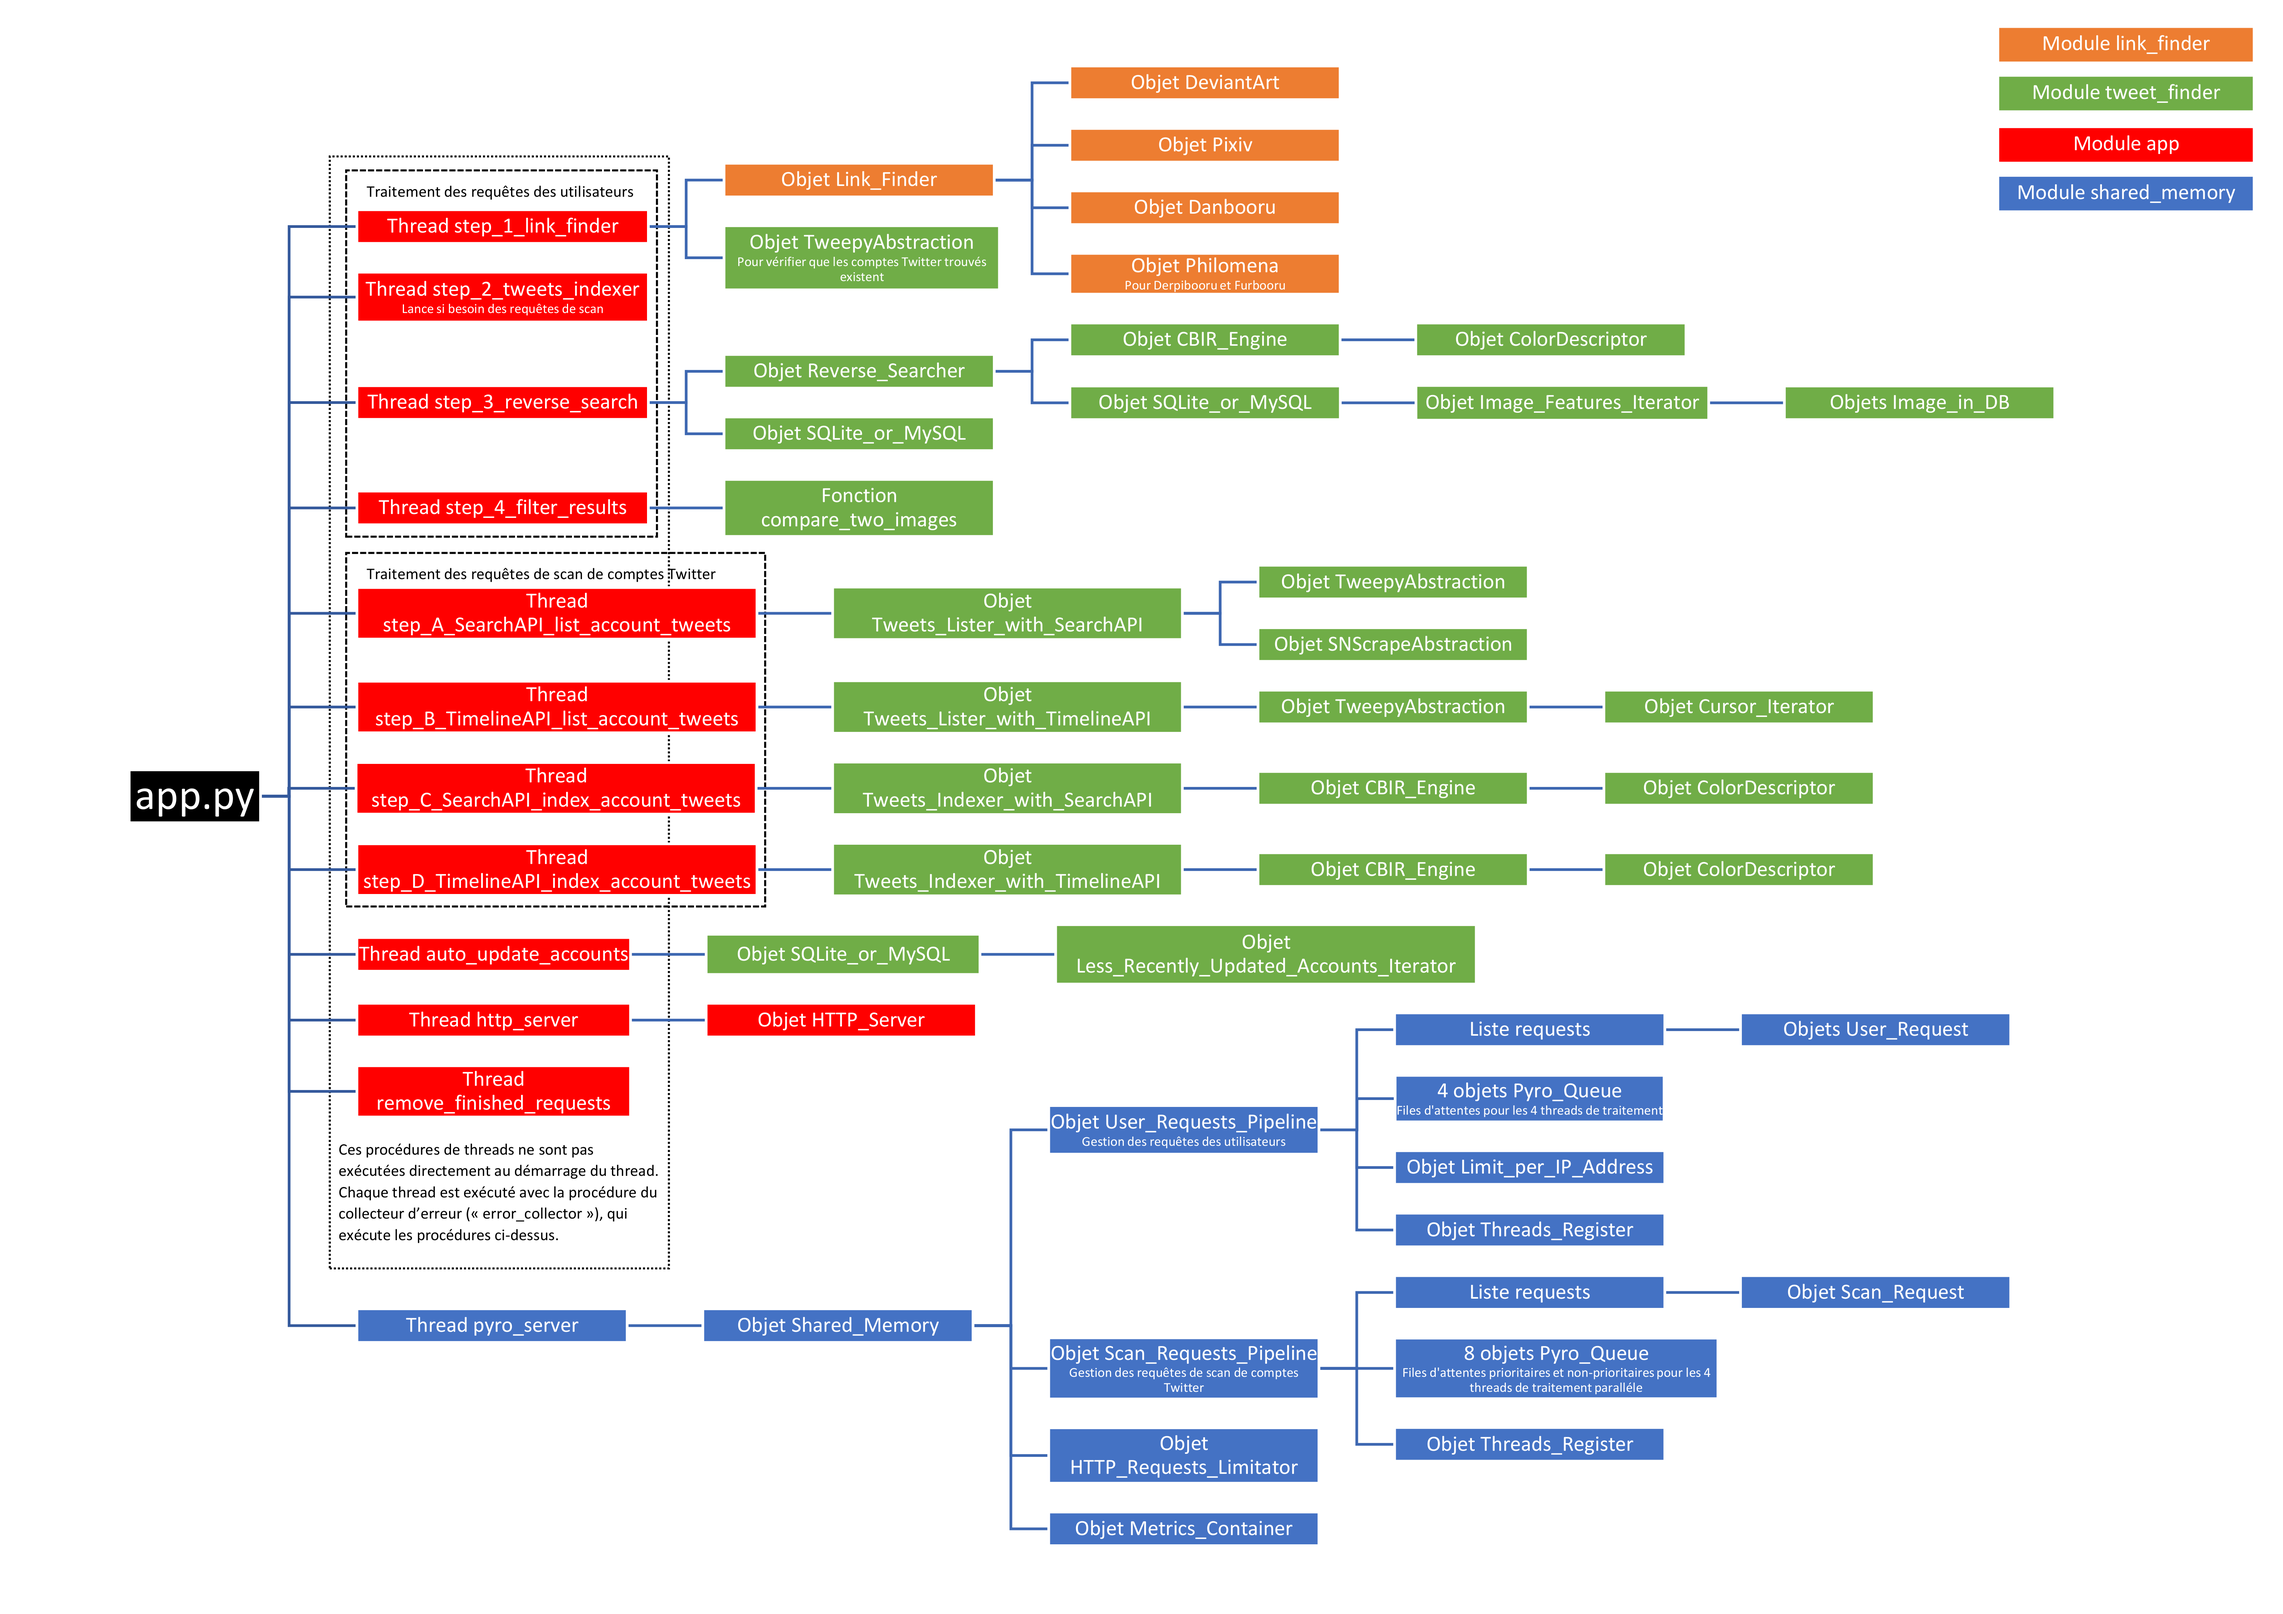
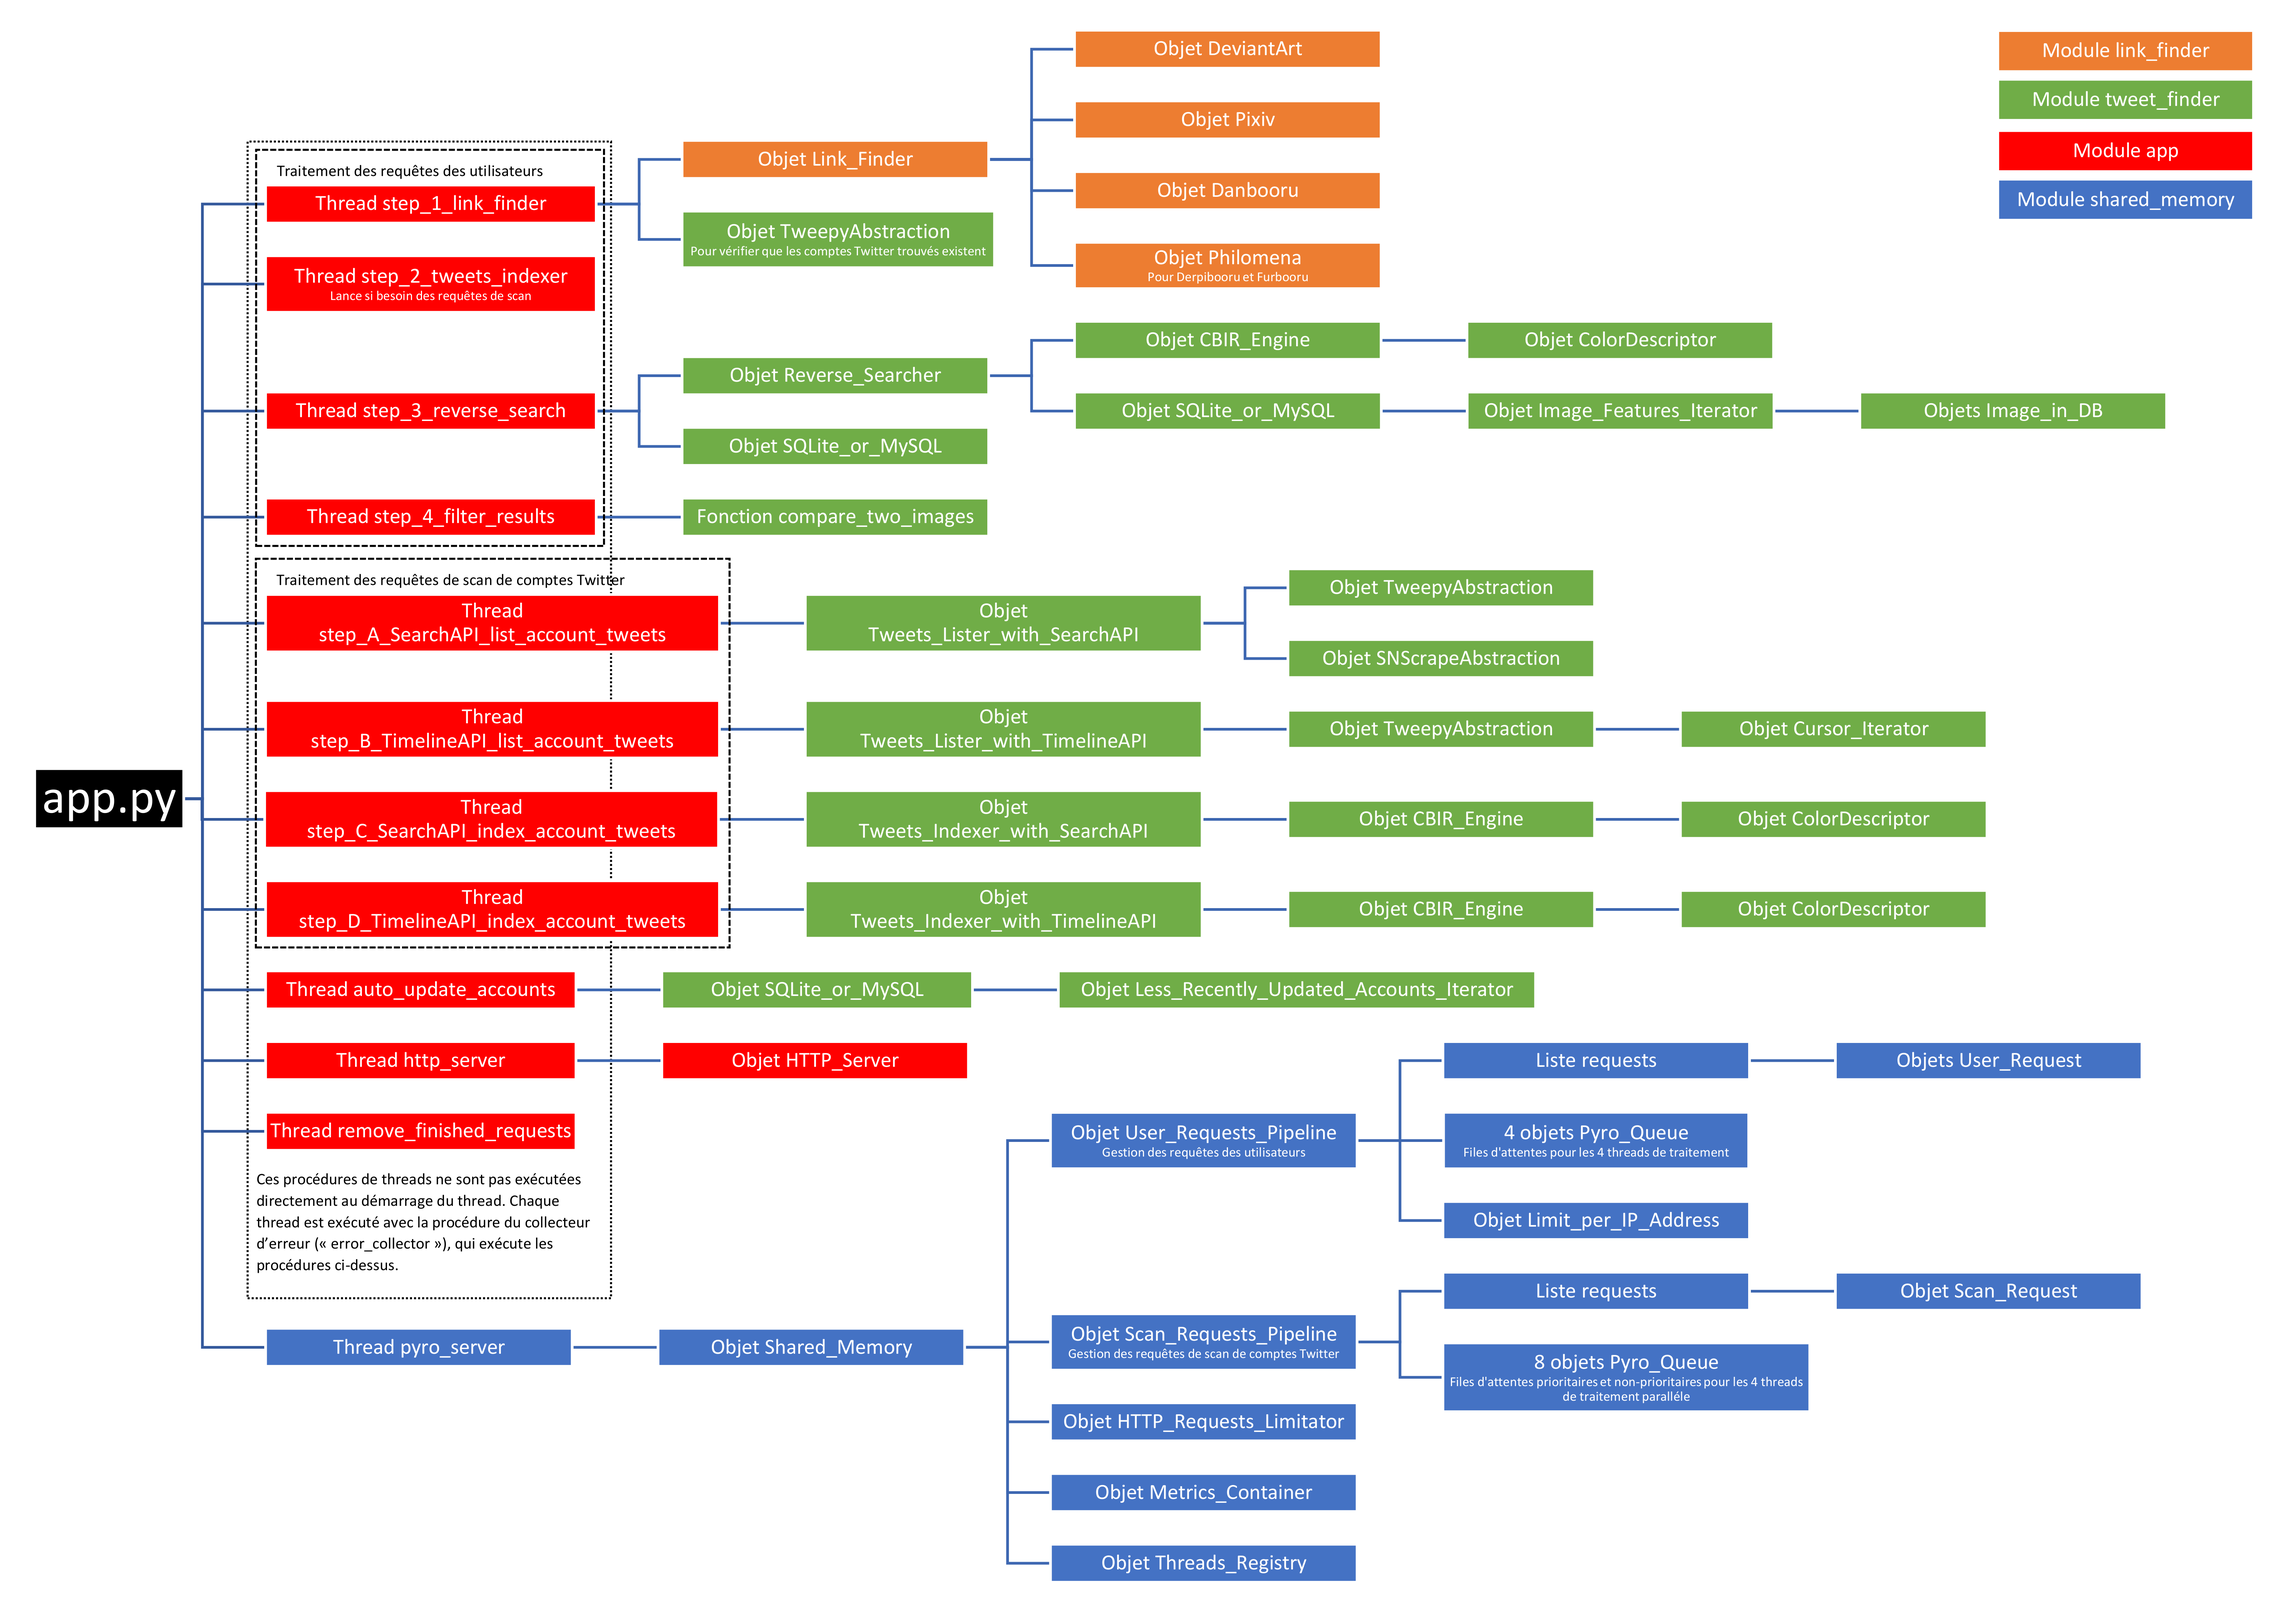
MàJ Architecture_du_serveur.png et documentation mémoire partagée Pour prendre en compte la transformation de l'objet Threads_Registry qui enregistre tous les threads / processus

Changed region(s): [[0.0, 0.0, 0.9642, 0.9945], [0.8709, 0.0, 0.9953, 0.1554]]

diff --git a/server/shared_memory/README.md b/server/shared_memory/README.md
@@ -51,7 +51,6 @@ Arbre des objets :
     - Attribut `requests_sem` (Privé) : URI vers objet `Pyro_Semaphore` : Vérrouillage de la liste précédente.
     - Attributs `*_queue` : URIs vers objets `Pyro_Queue` : Files d'attente des différentes threads de traitement. Peuvent contenir des URI de la liste `requests`.
     - Attribut `limit_per_ip_addresses` : URI vers objet `HTTP_Requests_Limitator` : Limitateur du nombre de requêtes en cours de traitement par adresse IP.
-    - Attribut `requests_in_thread` : URI vers objet `Threads_Register` : Objet auquel les threads de traitement déclarent les requêtes qu'ils sont en train de traiter (En donnent l'URI de la requête concernée).
     - Attribut `thread_step_2_tweets_indexer_sem` : URI vers objet `Pyro_Semaphore` : Verouillage du lancement d'une nouvelle requête de scan dans l'étape de traitement utilisateur numéro 2.
 
   - Attribut `scan_requests` : URI vers objet `Scan_Requests_Pipeline` : Mémoire partagée pour les threads de traitement des requêtes de scan.
@@ -60,9 +59,9 @@ Arbre des objets :
       - Attribut `TimelineAPI_tweets_queue` : URIs vers objet `Pyro_Queue` : File d'attente d'attente des Tweets trouvés avec l'API de timeline.
     - Attribut `requests_sem` (Privé) : URI vers objet `Pyro_Semaphore` : Vérrouillage de la liste précédente.
     - Attributs `*_queue` : URIs vers objets `Pyro_Queue` : Files d'attente des différentes threads de traitement. Peuvent contenir des URI de la liste `requests`.
-    - Attribut `requests_in_thread` : URI vers objet `Threads_Register` : Objet auquel les threads de traitement déclarent les requêtes qu'ils sont en train de traiter (En donnent l'URI de la requête concernée).
 
   - Attribut `http_limitator` : URI vers objet `HTTP_Requests_Limitator` : Limitateur du nombre de requêtes sur l'API HTTP.
+  - Attribut `threads_registry` : URI vers objet `Threads_Registry` : Objet auquel les threads / processus s'enregistrent. De plus, les threads de traitement déclarent les requêtes qu'ils sont en train de traiter (En donnent l'URI de la requête concernée).
 
 Voir chaque classe pour plus de documentation.
 
